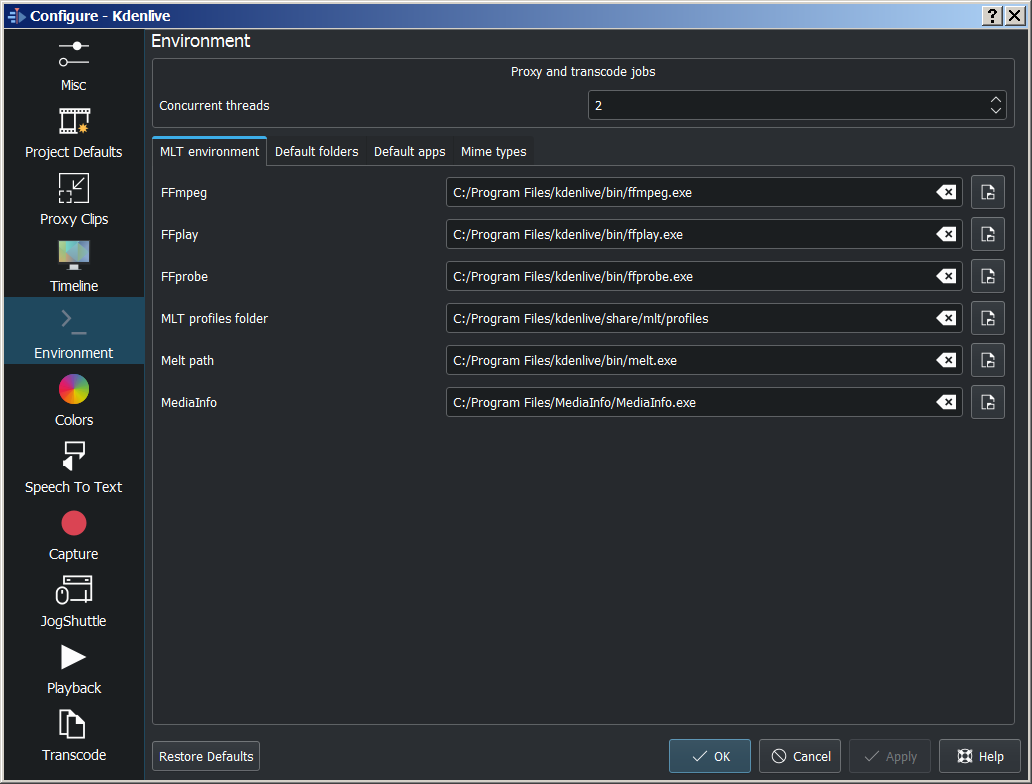
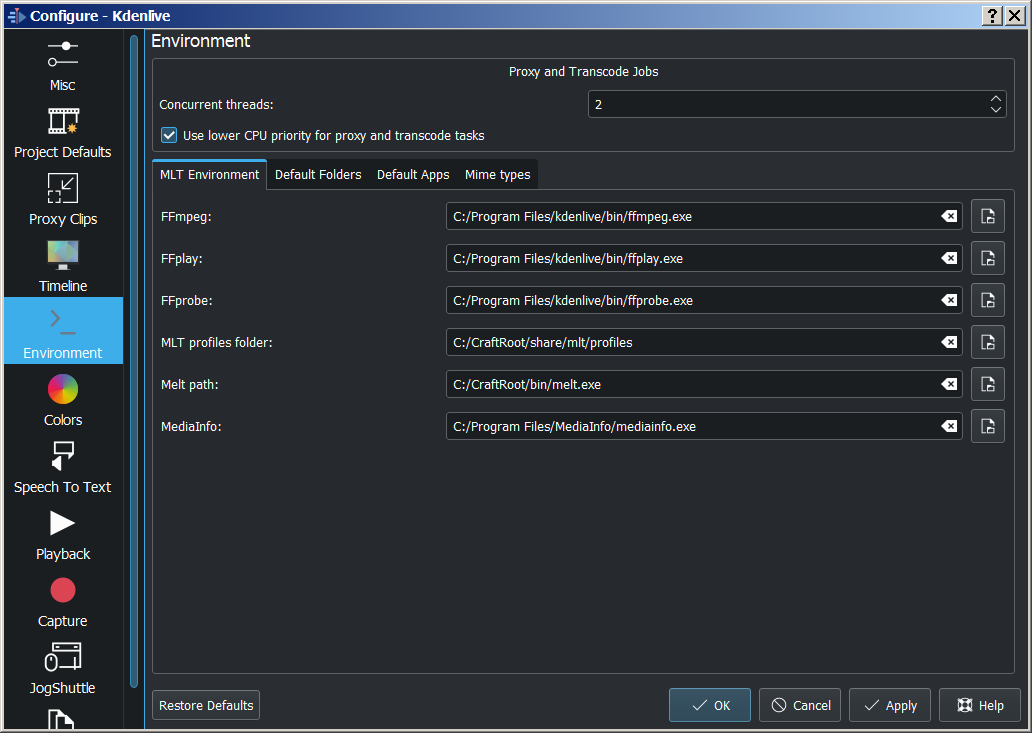
Add lower proxy rendering priority

diff --git a/user_interface/menu/settings_menu/configure_kdenlive.rst b/user_interface/menu/settings_menu/configure_kdenlive.rst
@@ -149,7 +149,15 @@ This setting tells **Kdenlive** where to find the MLT executables and profile fi
 
 Path to the MediaInfo file. If filled in Kdenlive shows more details in clip properties.
 
-**Proxy Clips - Concurrent Threads**  This will set the number of threads the program will attempt to use when calling ffmpeg to encode :ref:`clips`. This will be what kdenlive passes to the ffmpeg  *-threads* parameter. Increasing this parameter may not have an effect if you have changed the proxy encoding settings using :ref:`project_settings` to a codec that ffmpeg does not do multi-thread on. (Multi-threading is supported for MPEG-2, MPEG-4, H.264, and VP8)
+**Proxy and Transcode Jobs**
+
+:guilabel:`Concurrent threads` This will set the number of threads the program will attempt to use when calling ffmpeg to encode :ref:`clips`. This will be what kdenlive passes to the ffmpeg  *-threads* parameter. Increasing this parameter may not have an effect if you have changed the proxy encoding settings using :ref:`project_settings` to a codec that ffmpeg does not do multi-thread on. (Multi-threading is supported for MPEG-2, MPEG-4, H.264, and VP8)
+
+.. versionadded:: 22.08
+
+:guilabel:`Use lower CPU priority for proxy and transcode tasks`
+
+This adds a Kdenlive setting to lower the priority of the proxy rendering (QProcess). This helps keep the main UI responsive when proxies are rendering.
 
 .. deprecated:: 19.04
 
